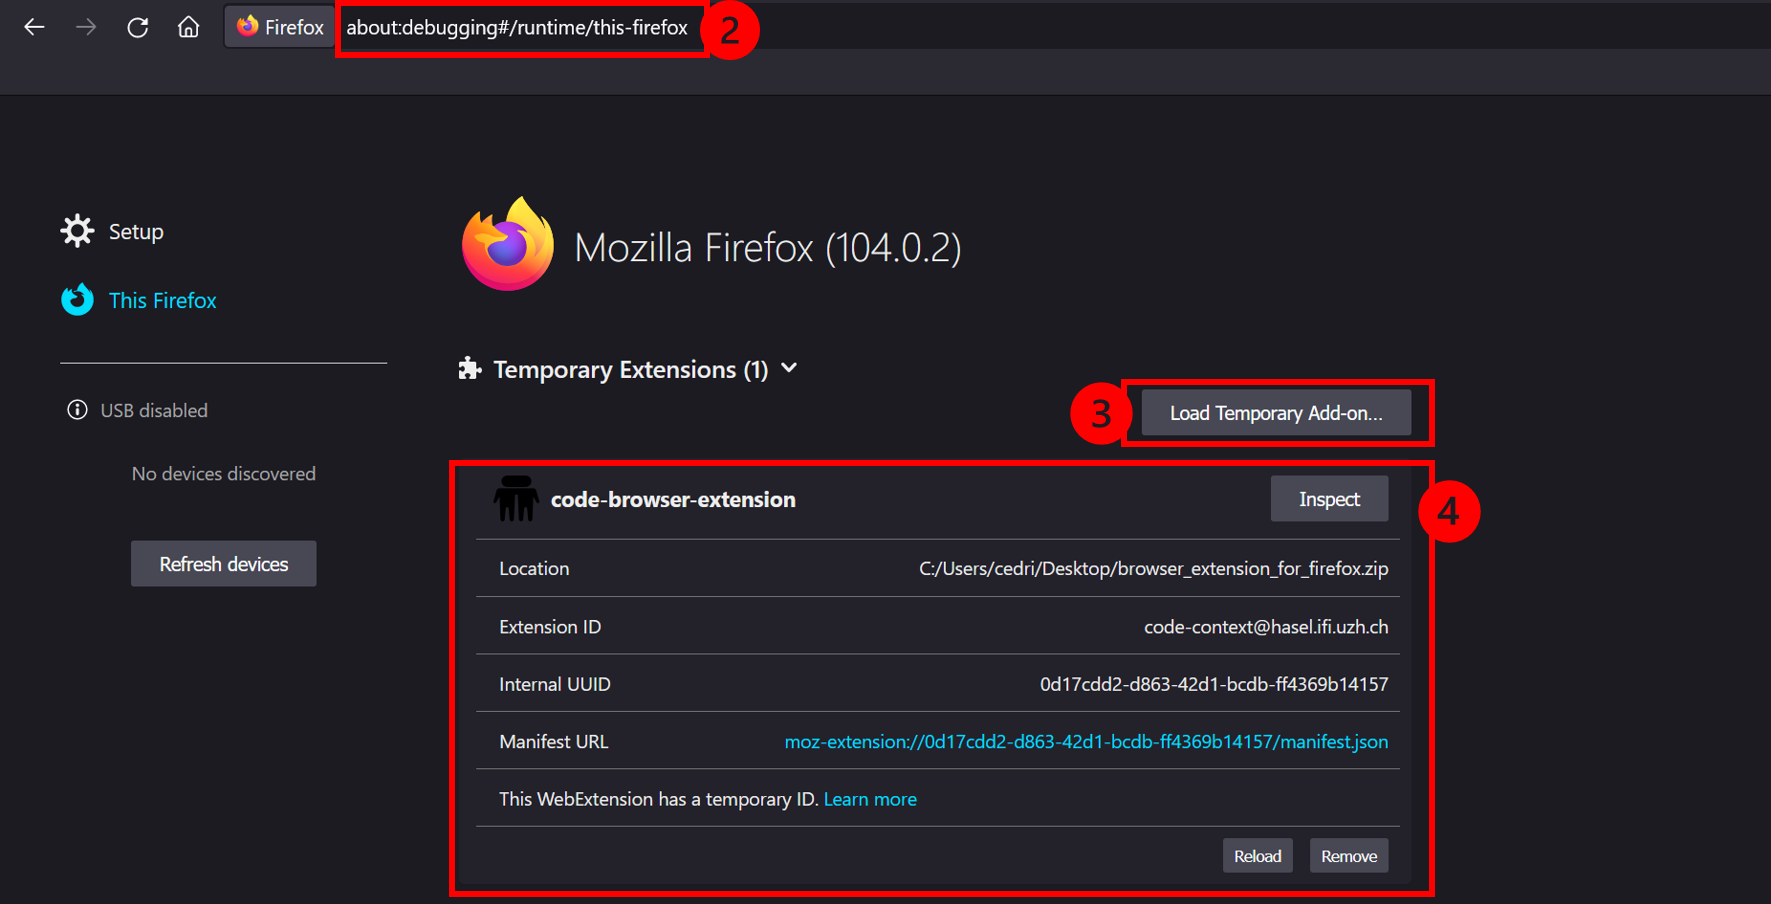
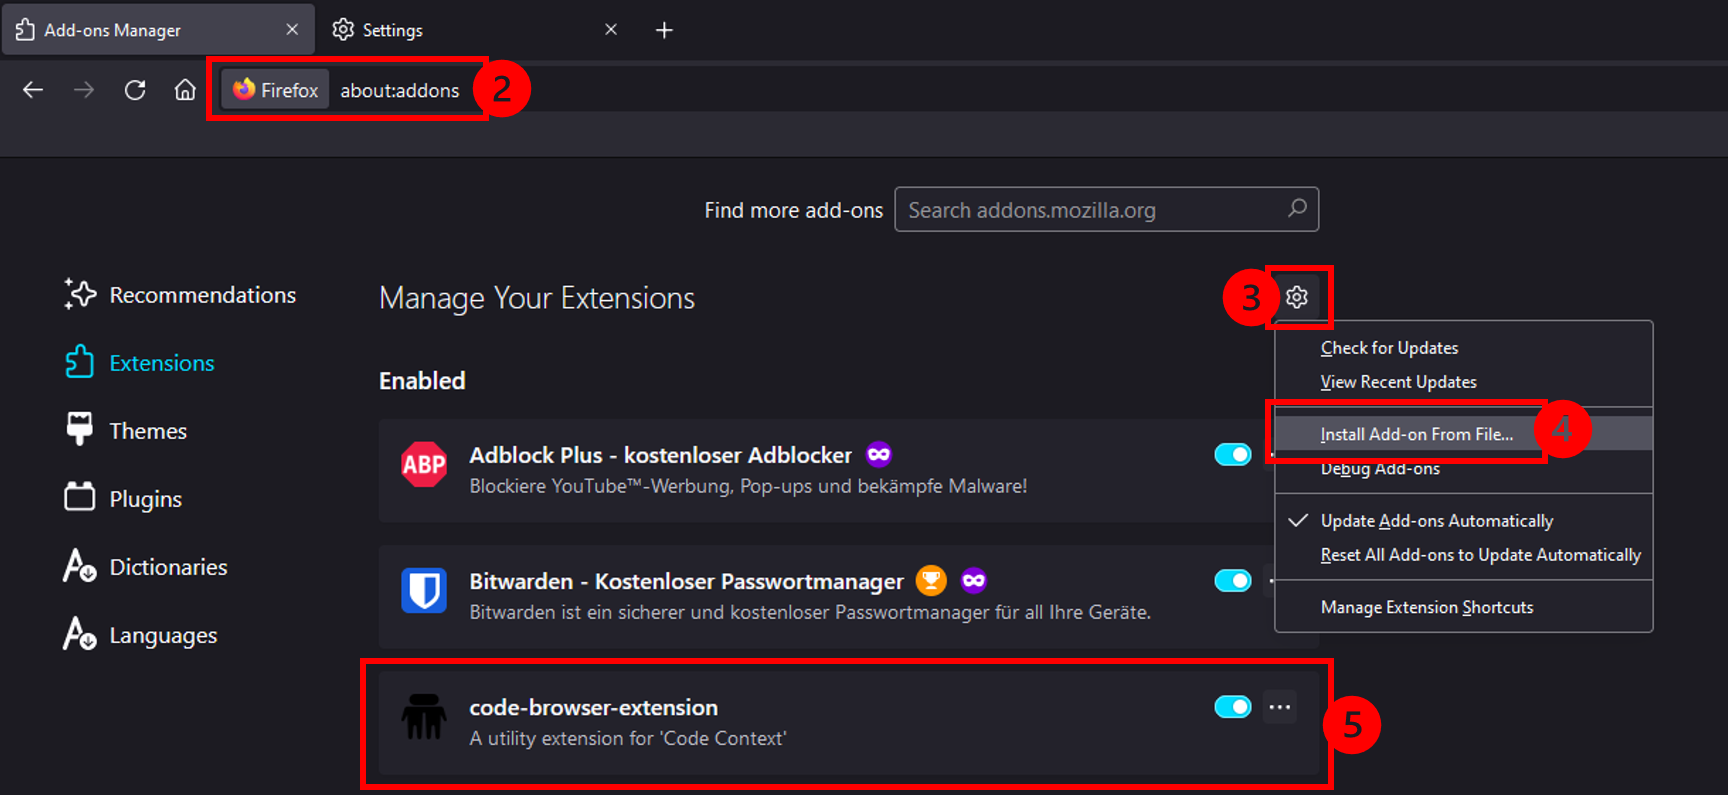
Change installation procedure for Firefox

diff --git a/installation.md b/installation.md
@@ -30,8 +30,9 @@ To be able to make suggestions based on your browser history, you must also inst
 
 **For Firefox users:**
 
-1. Download the respective package from [this link](https://drive.google.com/drive/folders/1MGik2RltRwymnOimNfj-zq5nrHOsXUgO?usp=sharing) and save it in your preferred place on your machine. Note that the folder must stay in your chosen location during the whole study.
-2. Type/copy `about:debugging#/runtime/this-firefox` into your Firefox Address Bar and open it.
-3. Press on the upper right button "Load Temporary Add-on..." and choose the zip package you saved on your machine.
-4. The extension is now added to your browser and already running. <br/>
+1. Download the respective file from [this link](https://drive.google.com/drive/folders/1MGik2RltRwymnOimNfj-zq5nrHOsXUgO?usp=sharing) and save it in your preferred place on your machine. (Note that you probably could delete it after installing, but to be sure leave it in your chosen location during the whole study.)
+2. Type `about:addons` into your Firefox Address Bar and open it.
+3. Press on the settings/gear button, 
+4. Klick "Install Add-on From File" and choose the extension file you just downloaded.
+5. The extension is now added to your browser and already running. <br/>
     <img src="assets/firefox_installation.png" width="800">
